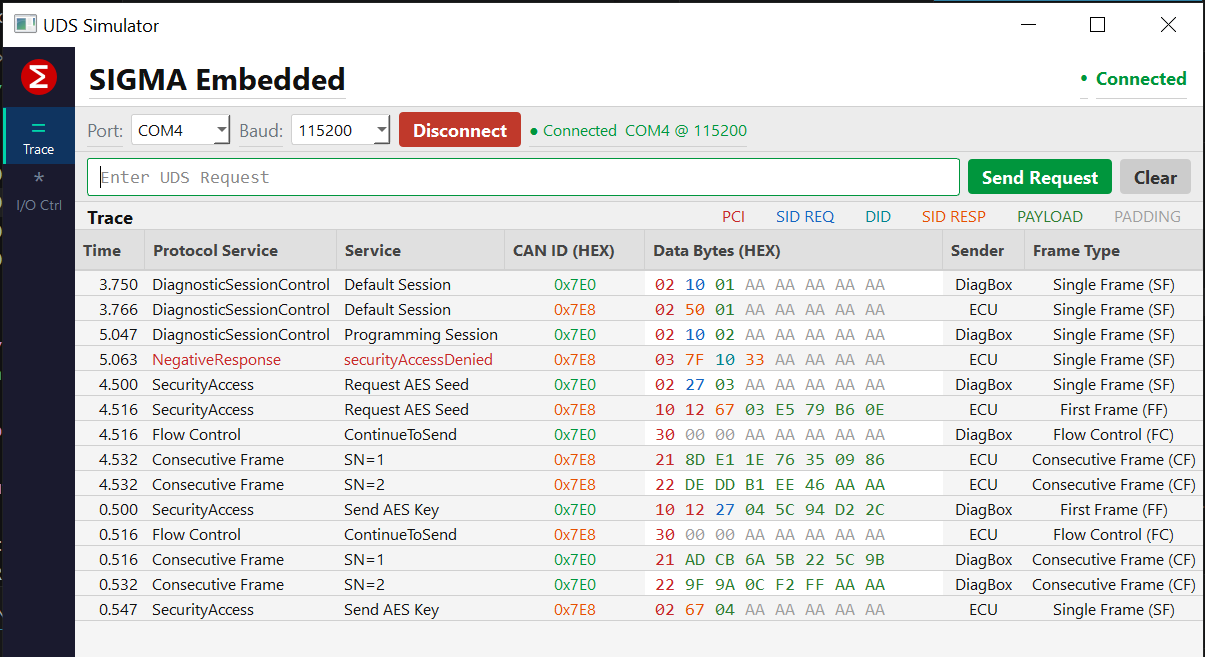
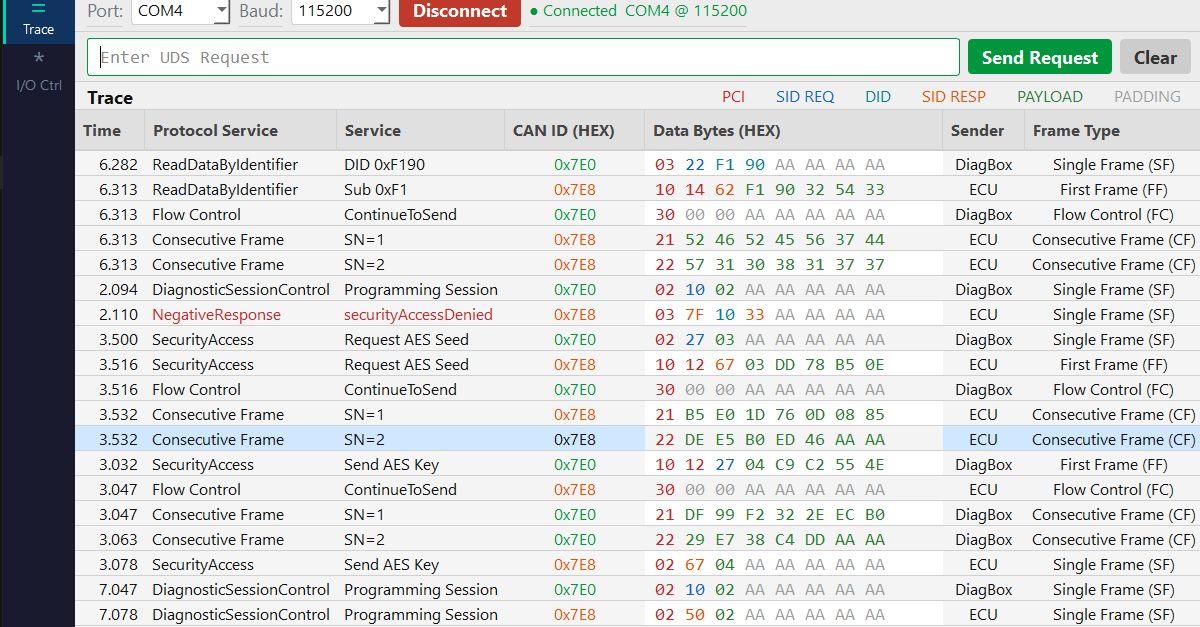
docs: add code & UI screenshots, clarify 0x2F HW vs simulated outputs

Changed region(s): [[0.0, 0.0, 1.0, 1.0], [0.6475, 0.1212, 0.74, 0.1818]]

diff --git a/DCM/Inc/SIGMA_uds.h b/DCM/Inc/SIGMA_uds.h
@@ -62,7 +62,7 @@
 
 /* SID 0x22 — ReadDataByIdentifier (DIDs) */
 #define SID_READ_DATA                       0x22
-#define DID_ECU_SERIAL_NUMBER               0xF18C
+#define DID_ECU_IDENTIFICATION_NUMBER       0xF190
 #define DID_ECU_HW_VERSION                  0xF193
 #define DID_ECU_SW_VERSION                  0xF195
 #define DID_ECU_SESSION                     0xF186

diff --git a/DCM/Src/SIGMA_uds.c b/DCM/Src/SIGMA_uds.c
@@ -286,7 +286,7 @@ void SIGMA_READ_DID(uint8_t length, uint16_t did, uint8_t *tx_buf)
     /* length == 2 — valid single DID request */
     switch (did)
     {
-        case DID_ECU_SERIAL_NUMBER:
+        case DID_ECU_IDENTIFICATION_NUMBER :
         	/* VIN is : 2T3RFREV7DW108177 */
 
         	assembled[0] = 0x14;

diff --git a/SIGMA_User_Interface/SIGMA_UDS_Host.py b/SIGMA_User_Interface/SIGMA_UDS_Host.py
@@ -184,7 +184,7 @@ def describe_frame(frame: bytes, sender: str):
         sub       = frame[3] if len(frame) > 3 else 0
         name      = SERVICE_NAMES.get(sid, f"0x{sid:02X}")
         is_resp   = (0x40 <= sid < 0x80) or sid == 0x7F
-        det       = SECURITY_NAMES.get(sub, f"Sub 0x{sub:02X}") if sid in (0x27, 0x67) else f"LEN={total_len}"
+        det       = SECURITY_NAMES.get(sub, f"Sub 0x{sub:02X}")
         colored = []
         for i, b in enumerate(frame):
             hx = f"{b:02X}"

diff --git a/README.md b/README.md
@@ -16,18 +16,20 @@ paired with a **PyQt5 diagnostic host** that replicates a professional ECU teste
 └─────────────────────┘                            └─────────────────────┘
 ```
 
+![DCM Core Code](images/2.PNG)
+
 ---
 
 ## UDS Services
 
-| SID  | Service                        | Notes                                    |
-|------|--------------------------------|------------------------------------------|
-| 0x10 | DiagnosticSessionControl       | Default / Programming session            |
-| 0x11 | ECUReset                       | SW / HW / KeyOffOn reset                 |
-| 0x22 | ReadDataByIdentifier           | Serial number, HW/SW version, session    |
-| 0x27 | SecurityAccess                 | XOR seed/key + AES-ECB-128 high security |
-| 0x31 | RoutineControl                 | Erase memory, integrity check            |
-| 0x2F | InputOutputControlByIdentifier | LED, Buzzer (PWM), Fan (PWM), Relay      |
+| SID  | Service                        | Notes                                                                        |
+|------|--------------------------------|------------------------------------------------------------------------------|
+| 0x10 | DiagnosticSessionControl       | Default / Programming session                                                |
+| 0x11 | ECUReset                       | SW / HW / KeyOffOn reset                                                     |
+| 0x22 | ReadDataByIdentifier           | Serial number, HW/SW version, session                                        |
+| 0x27 | SecurityAccess                 | XOR seed/key + AES-ECB-128 high security                                     |
+| 0x31 | RoutineControl                 | Erase memory, integrity check                                                |
+| 0x2F | InputOutputControlByIdentifier | LED (real HW — PA5), Buzzer PWM, Fan PWM, Relay (3 simulated in UI) |
 
 ---
 
@@ -58,41 +60,21 @@ Multi-frame transport is used for SID 0x27 sub 0x03/0x04 — the AES seed (18 by
 
 ---
 
-## Project Structure
-
-```
-├── Core/
-├── Drivers/
-├── Src/
-│   ├── main.c
-│   ├── SIGMA_uds.c
-│   ├── SIGMA_iso_tp.c
-│   └── SIGMA_io_control.c
-├── Inc/
-│   ├── SIGMA_uds.h
-│   ├── SIGMA_iso_tp.h
-│   └── SIGMA_io_control.h
-├── SIGMA_User_Interface/
-│   ├── SIGMA_UDS_Host.py
-│   ├── SIGMA_IO_Control.py
-│   ├── IOCControlPage.py
-│   └── aes_ecb_key.py
-└── images/
-    └── 1.PNG
-```
-
----
-
 ## Hardware
-Fan, Buzzer and Relay are just simulator in the UI
+
+> ⚠️ **Note:** `0x2F` controls **4 outputs** — **LED (PA5) is real HW on STM32**.
+> Fan (TIM2 CH2), Buzzer (TIM3 CH1) and Relay (PB0) are **simulated in the PyQt5 UI only**.
+
+![I/O Control UI](images/3.PNG)
+
 | Component | Detail                        |
 |-----------|-------------------------------|
 | Board     | STM32F411RE Nucleo            |
 | Interface | UART2 @ 115200 baud (ST-Link) |
-| LED       | PA5                           |
-| Fan       | TIM2 CH2 — PWM 0–100%        |
-| Buzzer    | TIM3 CH1 — PWM 0–100%        |
-| Relay     | PB0                           |
+| LED       | PA5 — Real HW              |
+| Fan       | TIM2 CH2 — PWM 0–100% (UI sim)|
+| Buzzer    | TIM3 CH1 — PWM 0–100% (UI sim)|
+| Relay     | PB0 (UI sim)                  |
 
 ---
 